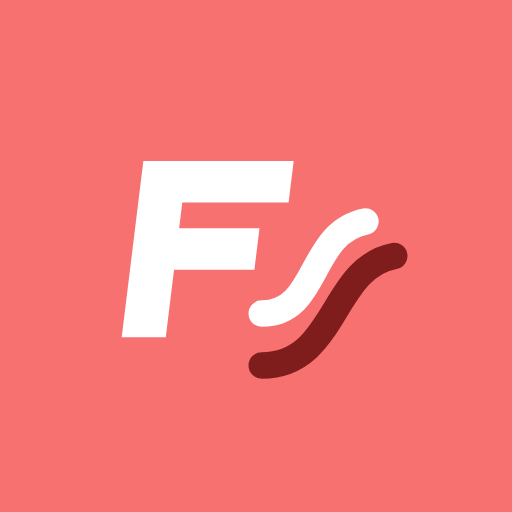
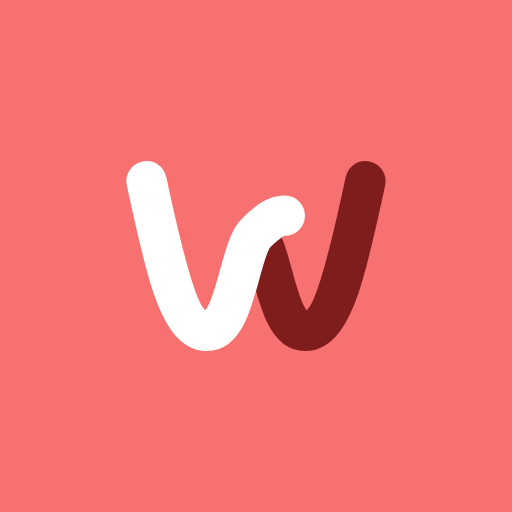
24-9-26-4
เปลี่ยนชื่อแอปจาก Flowix เป็น WiRix (ไวริกซ์) พร้อมไอคอนและโลโก้ใหม่

- ไอคอนแอป: ตัว W โค้งพลิ้วแบบริบบิ้นสองสี (ขาว + แดงเข้ม) บนพื้นแดงอ่อนเดิม (ผู้ใช้เลือกแบบ C)
  สร้างใหม่ทุกขนาด: app-icon.svg · 512/192/apple-180 · maskable · favicon.ico (16/32/48)
- โลโก้ตัวอักษร: "WiRix" ฟอนต์ Sniglet ตัวกลมมน (ผู้ใช้เลือกแบบ 8) · "ix" ไล่เฉดแดงเหมือนเดิม
  บนแผงแดงหน้าเข้าสู่ระบบ "ix" เป็นชมพูอ่อน (ไล่เฉดแดงจมหายกับพื้นแดง)
- ชื่อแอปทุกที่: แท็บเบราว์เซอร์ · manifest · หน้าเข้าสู่ระบบ · ตั้งค่าองค์กร · APP_NAME
  คำโปรย: "เชื่อมทุกงานเข้าด้วยกัน" (Wire = เชื่อมงาน ทีม ข้อมูล)
- ?v=14 ในไอคอนทุกไฟล์ ให้เบราว์เซอร์ดึงรูปใหม่ ไม่ใช้ของเก่าจากแคช
- แถบแจ้งเปลี่ยนชื่อ (สำหรับแอปที่ลงเครื่อง): คีย์ใหม่ app.rebrand.wirix.ack ให้ทุกคนเห็นอีกรอบ
- ไม่แตะโลโก้บริษัท (ชุด DO ALL ยังเลือกได้เหมือนเดิม)

Changed region(s): [[0.2188, 0.3125, 0.8125, 0.75], [0.6562, 0.625, 0.6875, 0.6562]]

diff --git a/index.html b/index.html
@@ -2,19 +2,19 @@
 <html lang="en">
   <head>
     <meta charset="utf-8" />
-    <!-- ไอคอนของ "แอป" (Flowix) — คนละส่วนกับโลโก้บริษัทที่ตั้งจากหน้า "ตั้งค่าองค์กร" โดยสิ้นเชิง
+    <!-- ไอคอนของ "แอป" (WiRix) — คนละส่วนกับโลโก้บริษัทที่ตั้งจากหน้า "ตั้งค่าองค์กร" โดยสิ้นเชิง
          ⚠ ต้องมี ?v= ต่อท้ายและเลื่อนเลขทุกครั้งที่เปลี่ยนรูป ให้ตรงกับใน manifest.json —
          ไม่งั้นเบราว์เซอร์หยิบไอคอนเดิมจากแคชมาใช้ แล้วผู้ใช้จะยังเห็นของเก่าอยู่นาน -->
-    <link rel="icon" href="/favicon.ico?v=13" sizes="any" />
-    <link rel="icon" type="image/svg+xml" href="/app-icon.svg?v=13" />
+    <link rel="icon" href="/favicon.ico?v=14" sizes="any" />
+    <link rel="icon" type="image/svg+xml" href="/app-icon.svg?v=14" />
     <meta name="viewport" content="width=device-width, initial-scale=1" />
     <!-- สีแถบเบราว์เซอร์บนมือถือ = สีประจำแอป -->
     <meta name="theme-color" content="#dc2626" />
     <meta
       name="description"
-      content="Flowix (โฟลอิกซ์) — ระบบที่ทำให้งานและข้อมูลไหลลื่นเชื่อมโยงกัน: จัดตารางช่าง · ติดตามการดำเนินงาน · เอกสาร · วางบิล · เบิกค่าใช้จ่าย"
+      content="WiRix (ไวริกซ์) — ระบบที่เชื่อมงาน ทีม และข้อมูลเข้าด้วยกัน: จัดตารางช่าง · ติดตามการดำเนินงาน · เอกสาร · วางบิล · เบิกค่าใช้จ่าย"
     />
-    <link rel="apple-touch-icon" href="/app-icon-apple-180.png?v=13" />
+    <link rel="apple-touch-icon" href="/app-icon-apple-180.png?v=14" />
 
     <link rel="stylesheet" href="https://cdnjs.cloudflare.com/ajax/libs/font-awesome/6.5.2/css/all.min.css">
 
@@ -46,7 +46,7 @@
       ส่วน %PUBLIC_URL% เป็นไวยากรณ์ของ CRA ที่ Vite ไม่รู้จัก — เปลี่ยนเป็น / ตรงๆ ทั้งหมด
       (ไฟล์ใน public/ ยังถูกเสิร์ฟที่ราก / เหมือนเดิม เช่น /favicon.ico, /manifest.json, /push-sw.js)
     -->
-    <title>Flowix · งานไหลลื่น เชื่อมโยงกัน</title>
+    <title>WiRix · เชื่อมทุกงานเข้าด้วยกัน</title>
   </head>
   <body>
     <noscript>You need to enable JavaScript to run this app.</noscript>

diff --git a/src/shared/services/OrgSettingService.js b/src/shared/services/OrgSettingService.js
@@ -27,7 +27,7 @@ export const ORG_FALLBACK = {
   website: "",
   /**
    * โลโก้บนหัวเว็บ · หน้าเข้าสู่ระบบ
-   * ✅ ค่าเริ่มต้น = โลโก้ของ "แอป" (Flowix) ไม่ใช่โลโก้บริษัทใดบริษัทหนึ่ง — องค์กรที่เพิ่งติดตั้ง
+   * ✅ ค่าเริ่มต้น = โลโก้ของ "แอป" (WiRix) ไม่ใช่โลโก้บริษัทใดบริษัทหนึ่ง — องค์กรที่เพิ่งติดตั้ง
    * จะได้แบรนด์ของแอปไปก่อน แล้วค่อยอัปโหลดโลโก้ตัวเอง หรือกดเลือกชุดที่ติดมากับแอปทับได้
    * ⚠ ชุดเดิมของ DO ALL ยังอยู่ครบทุกไฟล์ — เลือกกลับมาใช้ได้ 1 คลิกจากหน้า "ตั้งค่าองค์กร"
    */
@@ -47,7 +47,7 @@ export const ORG_FALLBACK = {
 };
 
 /**
- * ชุดโลโก้ของแอป (Flowix) — มีหลายแบบเพราะพื้นหลังแต่ละที่ไม่เหมือนกัน
+ * ชุดโลโก้ของแอป (WiRix) — มีหลายแบบเพราะพื้นหลังแต่ละที่ไม่เหมือนกัน
  * ⚠ ไฟล์ PNG มีสีตัวอักษรตายตัว จึงต้องเลือกให้ตรงพื้น ไม่งั้นตัวหนังสือจมหายไปกับพื้น
  */
 export const APP_LOGO = {
@@ -62,7 +62,7 @@ const APP_LOGO_FILES = Object.values(APP_LOGO);
 /**
  * โลโก้ที่ควรใช้ในบริบทนั้นๆ
  * • องค์กรตั้งโลโก้ของตัวเองไว้ (อัปโหลดเอง หรือเลือกชุด DO ALL) → ใช้ของเขาทุกที่เหมือนเดิม
- * • ยังใช้ค่าเริ่มต้นของแอปอยู่ → หยิบไฟล์ Flowix ที่เข้ากับพื้นตรงนั้นให้อัตโนมัติ
+ * • ยังใช้ค่าเริ่มต้นของแอปอยู่ → หยิบไฟล์ WiRix ที่เข้ากับพื้นตรงนั้นให้อัตโนมัติ
  * @param {{on?: "dark"|"light", layout?: "wordmark"|"stacked"|"icon"}} opts
  * @param {object} [settings] ค่าที่หน้าจอ subscribe อยู่ (useOrgSettings) — ส่งมาด้วยเพื่อให้
  *   เปลี่ยนโลโก้แล้วหน้าจอวาดใหม่ทันที (ถ้าอ่านจากแคชเฉยๆ React จะไม่รู้ว่ามีอะไรเปลี่ยน)

diff --git a/src/features/settings/pages/OrganizationSettings.js b/src/features/settings/pages/OrganizationSettings.js
@@ -34,7 +34,7 @@ const IMAGE_SLOTS = [
     // ⚠ เดิมชื่อช่องนี้ว่า "โลโก้แอป" ทั้งที่ของที่ใส่ได้คือโลโก้ "บริษัท" ด้วย — ชื่อช่องจึงบอก
     // ตำแหน่งที่ไปโผล่แทน (หัวเว็บ) ส่วนโลโก้ของแอปเป็นแค่ค่าเริ่มต้นที่ติดมาให้
     slot: "app", field: "logoUrl", title: "โลโก้บนหัวเว็บ",
-    desc: "แสดงบนแถบบนทุกหน้าและหน้าเข้าสู่ระบบ · ค่าเริ่มต้นคือโลโก้ Flowix ของแอป — เลือกชุดที่ติดมากับแอปหรืออัปโหลดโลโก้บริษัททับได้",
+    desc: "แสดงบนแถบบนทุกหน้าและหน้าเข้าสู่ระบบ · ค่าเริ่มต้นคือโลโก้ WiRix ของแอป — เลือกชุดที่ติดมากับแอปหรืออัปโหลดโลโก้บริษัททับได้",
     dark: true,
   },
   {
@@ -250,7 +250,7 @@ export default function OrganizationSettings() {
     }
   };
 
-  /** เลือกรูปที่ติดมากับแอป (Flowix / ชุดเดิม) — เร็วกว่าไปหาไฟล์มาอัปโหลดใหม่ */
+  /** เลือกรูปที่ติดมากับแอป (WiRix / ชุดเดิม) — เร็วกว่าไปหาไฟล์มาอัปโหลดใหม่ */
   const applyPresetImage = async (slot, key) => {
     setBusy(true); setError("");
     try {

diff --git a/src/shared/components/AppRebrandNotice.js b/src/shared/components/AppRebrandNotice.js
@@ -15,7 +15,7 @@ import { useEffect, useState } from "react";
 import { Alert, Box, Button, Collapse, Stack, Typography } from "@mui/material";
 import { InstallMobile } from "@mui/icons-material";
 
-const ACK_KEY = "app.rebrand.flowix.ack";   // ⚠ เปลี่ยนคีย์ทุกครั้งที่เปลี่ยนชื่อ/ไอคอน ไม่งั้นคนที่เคยกดรับทราบรอบก่อนจะไม่เห็นรอบใหม่
+const ACK_KEY = "app.rebrand.wirix.ack";   // ⚠ เปลี่ยนคีย์ทุกครั้งที่เปลี่ยนชื่อ/ไอคอน ไม่งั้นคนที่เคยกดรับทราบรอบก่อนจะไม่เห็นรอบใหม่
 
 /** เปิดจากแอปที่ติดตั้งไว้ (ไม่ใช่แท็บเบราว์เซอร์) หรือเปล่า */
 const isInstalledApp = () => {
@@ -63,7 +63,7 @@ export default function AppRebrandNotice() {
         }
       >
         <Typography sx={{ fontWeight: 800, fontSize: "0.9rem" }}>
-          แอปเปลี่ยนชื่อเป็น “Flowix (โฟลอิกซ์)” พร้อมไอคอนใหม่แล้ว
+          แอปเปลี่ยนชื่อเป็น “WiRix (ไวริกซ์)” พร้อมไอคอนใหม่แล้ว
         </Typography>
         <Typography variant="caption" sx={{ display: "block", color: "text.secondary" }}>
           ถ้าไอคอนบนหน้าจอโฮมยังเป็นอันเดิม ไม่ได้แปลว่าแอปไม่อัปเดต — ข้างในเป็นเวอร์ชันล่าสุดเสมอ

diff --git a/src/features/auth/pages/Login.js b/src/features/auth/pages/Login.js
@@ -190,7 +190,7 @@ const Login = () => {
             <Box
               component="img"
               src={appLogoFor({ on: "dark", layout: "stacked" }, org)}
-              alt="Flowix"
+              alt="WiRix"
               /* ⚠ 88 ไม่ใช่ 220 เหมือนตอนที่โลโก้ยังเป็นกรอบเรียงแนวตั้ง — ตอนนี้เป็นตัวอักษรบรรทัดเดียว
                  ตั้ง 220 แล้วคำจะกว้างจนชนขอบแผงและใหญ่กลบหัวข้อที่อยู่ใต้มัน */
               sx={{ height: 88, maxWidth: "100%", objectFit: "contain", mb: 1.5, filter: "drop-shadow(0 2px 6px rgba(0,0,0,0.15))" }}
@@ -245,7 +245,7 @@ const Login = () => {
           <Box
             component="img"
             src={appLogoFor({ on: "light" }, org)}
-            alt="Flowix"
+            alt="WiRix"
             sx={{ height: 40, maxWidth: "100%", objectFit: "contain", objectPosition: "left center", mb: 2.5, display: { xs: "block", md: "none" } }}
           />
 

diff --git a/src/shared/appInfo.js b/src/shared/appInfo.js
@@ -10,7 +10,7 @@
  */
 
 /** ชื่อแอปที่แสดงให้ผู้ใช้เห็น */
-export const APP_NAME = "Flowix";
+export const APP_NAME = "WiRix";
 
 /** เลขเวอร์ชันจาก package.json (ดูปลั๊กอิน app-version ใน vite.config.js) */
 export { default as APP_VERSION } from "virtual:app-version";

diff --git a/src/app/App.js b/src/app/App.js
@@ -50,7 +50,7 @@ const App = () => {
   useEffect(() => {
     const currentRoute = findCurrentRoute(ThemeRoutes, location.pathname);
     const title = currentRoute ? currentRoute.title || "Dashboard" : "Dashboard";
-    document.title = `${title} · Flowix`;
+    document.title = `${title} · WiRix`;
   }, [location.pathname]);
 
   return (
